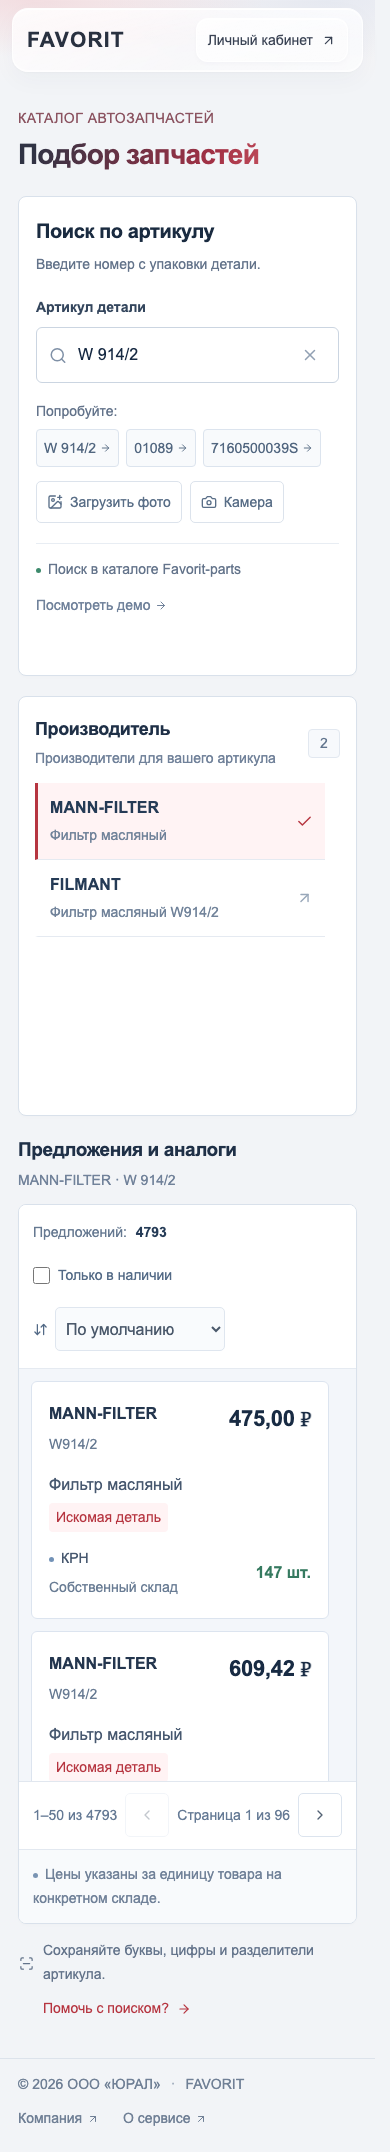
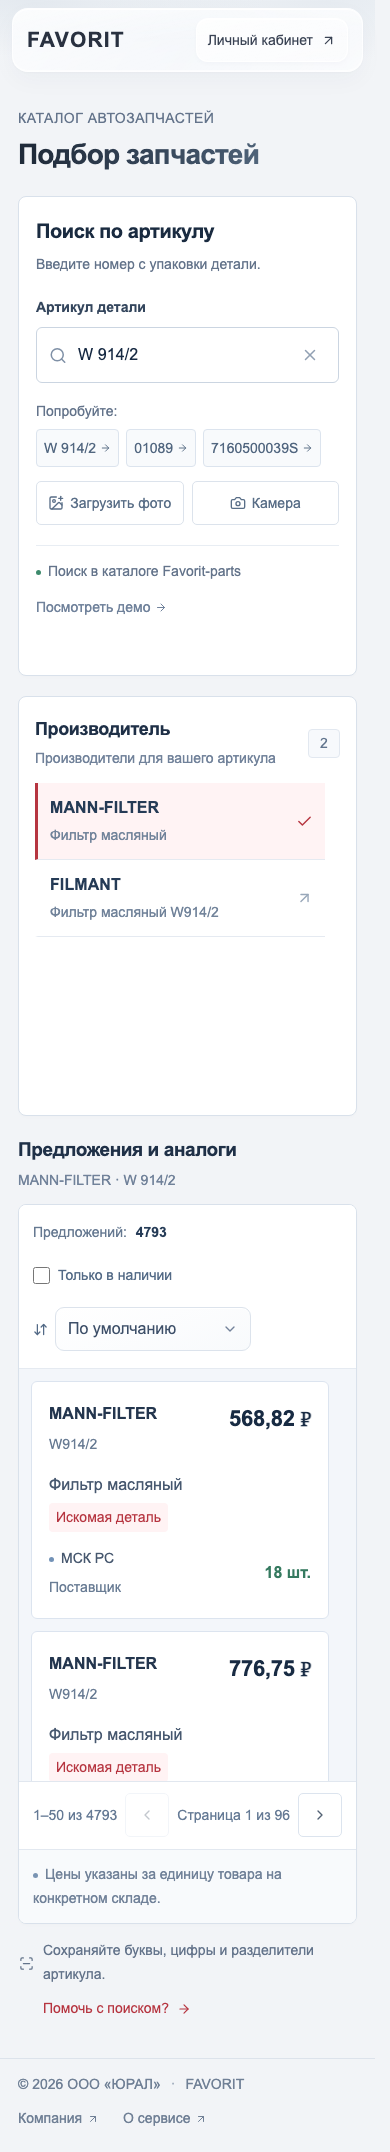
design: replace pink header tint with neutral steel tones

diff --git a/src/app/App.module.scss b/src/app/App.module.scss
@@ -9,9 +9,9 @@
   padding-top: 10px;
   color: #293140;
   background:
-    radial-gradient(ellipse at 8% 0%, #ecc2c875, transparent 48%),
-    radial-gradient(ellipse at 88% 0%, #d6dfed85, transparent 50%),
-    linear-gradient(180deg, #f8f5f6, #f2f4f7);
+    radial-gradient(ellipse at 8% 0%, #d5dde680, transparent 48%),
+    radial-gradient(ellipse at 88% 0%, #dbe2ea85, transparent 50%),
+    linear-gradient(180deg, #f3f6f9, #f2f4f7);
 }
 .headerInner,
 .main,
@@ -79,7 +79,7 @@
   border: 1px solid #ffffffed;
   border-radius: 12px;
   color: #9b303d;
-  background: linear-gradient(145deg, #ffffffd9, #f9e8eb9c);
+  background: linear-gradient(145deg, #ffffffd9, #edf1f6a6);
   box-shadow:
     0 2px 5px #982d3a08,
     inset 0 1px 0 #fff;
@@ -120,7 +120,7 @@
   color: #3a4354;
   &:hover {
     color: var(--accent);
-    background: #fff6f7;
+    background: #f4f7fa;
     border-color: var(--accent-border);
   }
 }
@@ -140,9 +140,9 @@
     line-height: 1.3;
     font-weight: 650;
     letter-spacing: -0.8px;
-    color: #752d40;
+    color: #263344;
     @supports (background-clip: text) {
-      background: linear-gradient(110deg, #303344 8%, #a33145 80%, #be4a59);
+      background: linear-gradient(110deg, #202b3a 8%, #415368 80%, #52667c);
       background-clip: text;
       -webkit-background-clip: text;
       color: transparent;
@@ -159,7 +159,7 @@
   font-size: 14px;
   font-weight: 500;
   letter-spacing: 0.5px;
-  color: #8b5360;
+  color: #64748b;
 }
 .helper {
   display: flex;
